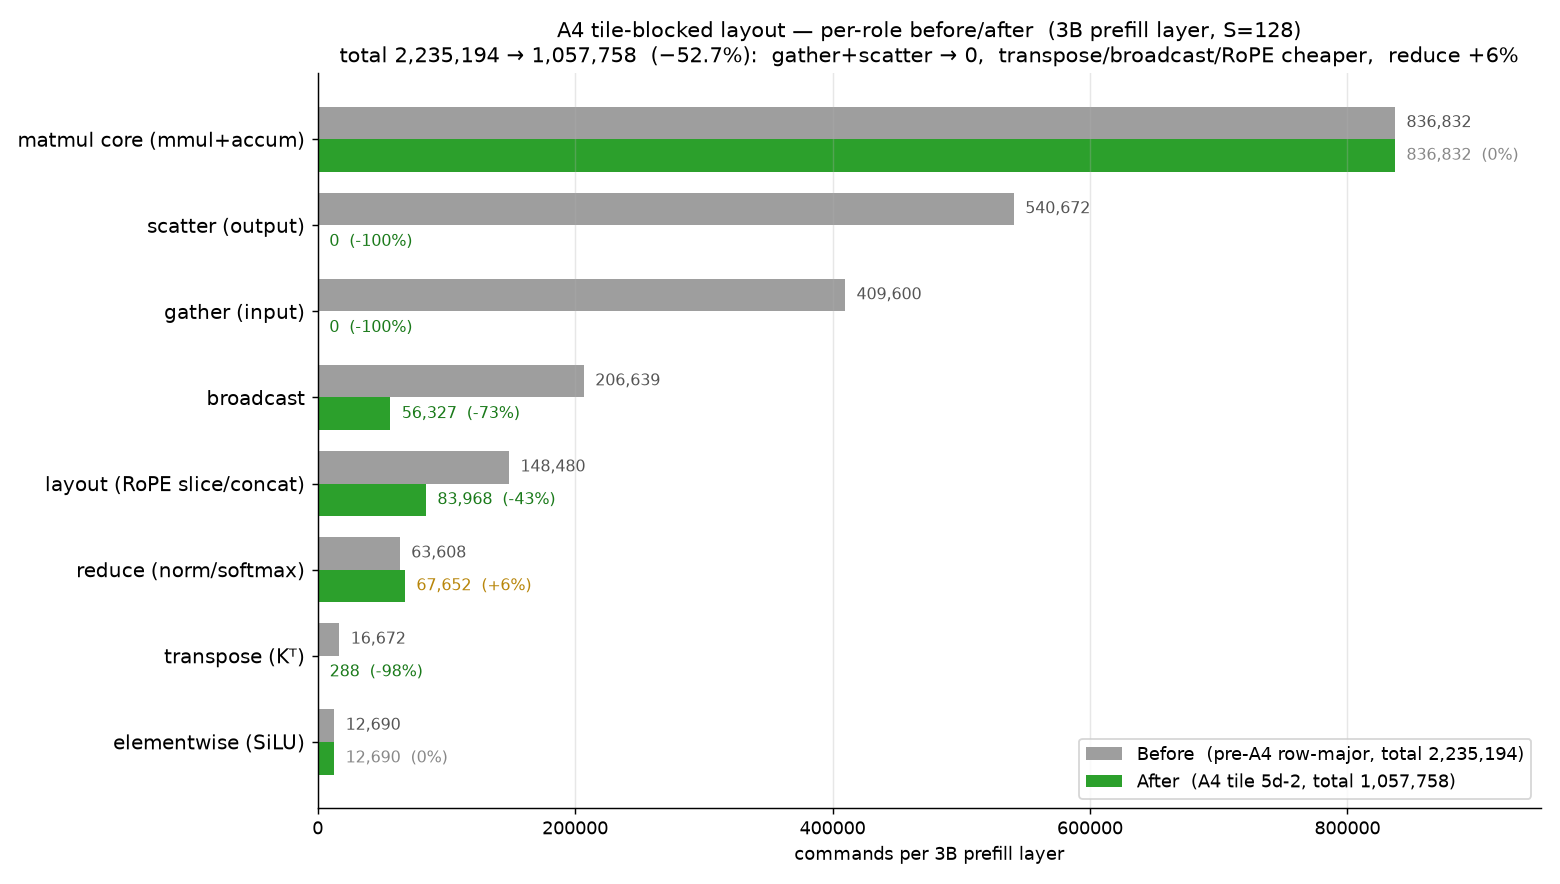
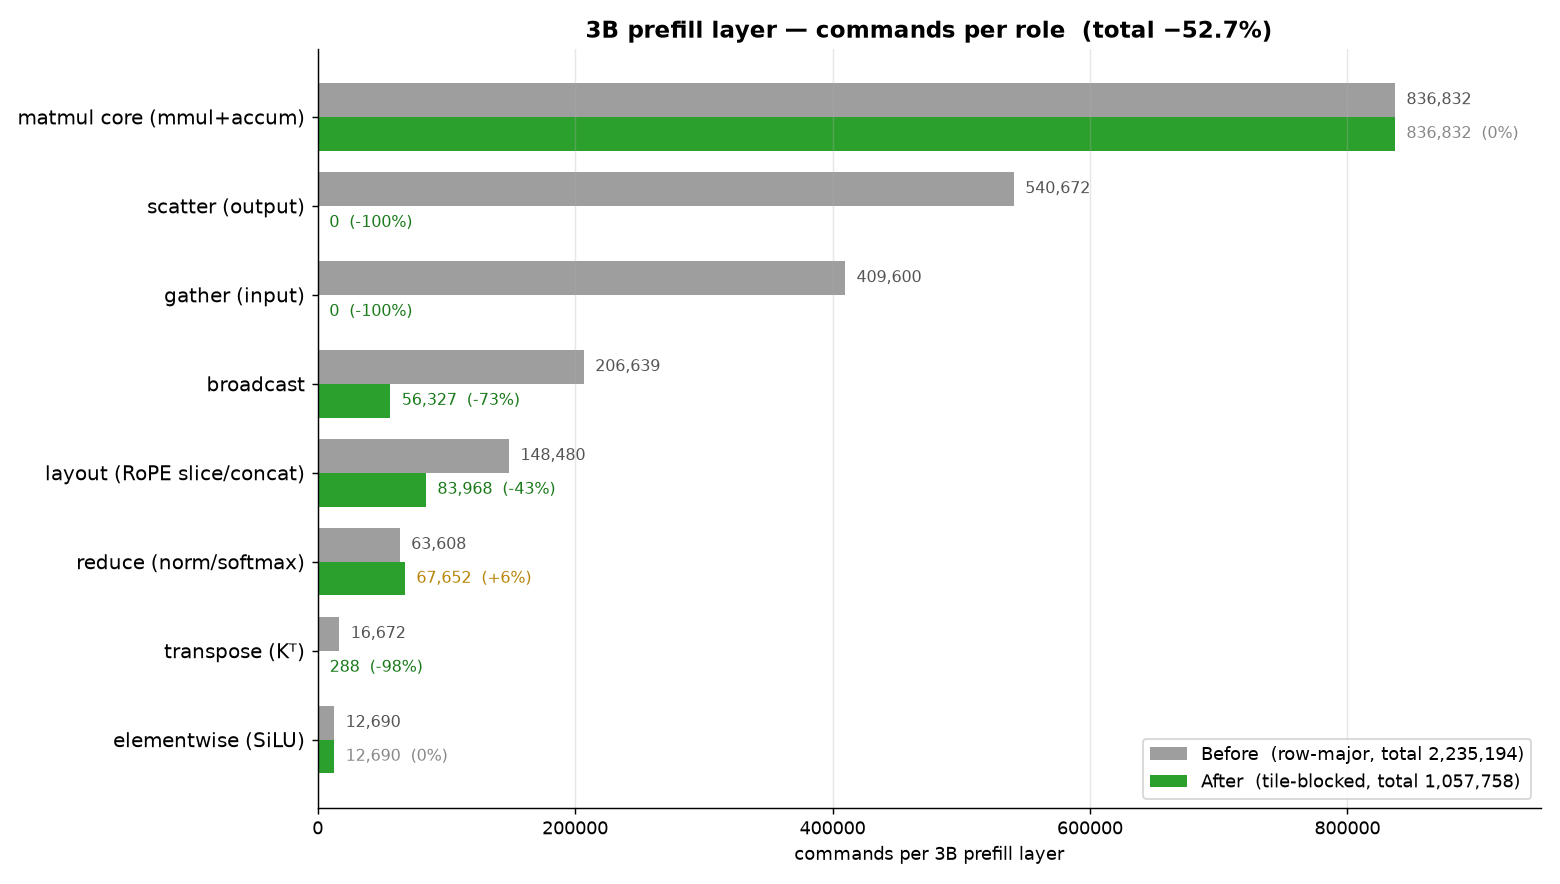
report_0719: memory graph % vs baseline; role graph plain legend/title
- g_memory: total labels now show reduction vs no-reuse baseline (reuse -18%,
  ideal -24%).
- g_role_before_after: drop internal stage codenames from the before/after
  legend (pre-A4 row-major / A4 tile 5d-2 -> row-major / tile-blocked); title
  simplified to '3B prefill layer — commands per role (total -52.7%)'.

diff --git a/report/figs/0719/plot_role_before_after.py b/report/figs/0719/plot_role_before_after.py
@@ -30,8 +30,8 @@ after = np.array([ma[k] for k in labels], float)
 y = np.arange(len(labels))[::-1]; h = 0.38
 
 fig, ax = plt.subplots(figsize=(12, 6.8))
-ax.barh(y + h/2, before, h, color="#9e9e9e", label=f"Before  (pre-A4 row-major, total {TB:,})")
-ax.barh(y - h/2, after, h, color="#2ca02c", label=f"After  (A4 tile 5d-2, total {TA:,})")
+ax.barh(y + h/2, before, h, color="#9e9e9e", label=f"Before  (row-major, total {TB:,})")
+ax.barh(y - h/2, after, h, color="#2ca02c", label=f"After  (tile-blocked, total {TA:,})")
 for i, (bf, af) in enumerate(zip(before, after)):
     yy = y[i]
     ax.text(bf + 9000, yy + h/2, f"{bf:,.0f}", va="center", fontsize=9, color="#555")
@@ -42,9 +42,8 @@ for i, (bf, af) in enumerate(zip(before, after)):
     ax.text(af + 9000, yy - h/2, lab, va="center", fontsize=9, color=col)
 ax.set_yticks(y); ax.set_yticklabels(labels, fontsize=11)
 ax.set_xlabel("commands per 3B prefill layer")
-ax.set_title("A4 tile-blocked layout — per-role before/after  (3B prefill layer, S=128)\n"
-             f"total {TB:,} → {TA:,}  (−{100*(1-TA/TB):.1f}%):  gather+scatter → 0,  "
-             "transpose/broadcast/RoPE cheaper,  reduce +6%", fontsize=11.5)
+ax.set_title(f"3B prefill layer — commands per role  (total −{100*(1-TA/TB):.1f}%)",
+             fontsize=13, fontweight="bold")
 ax.legend(loc="lower right", fontsize=10)
 ax.set_xlim(0, 950_000); ax.grid(axis="x", alpha=0.3)
 ax.spines["top"].set_visible(False); ax.spines["right"].set_visible(False)

diff --git a/report/figs/0719/plot_memory.py b/report/figs/0719/plot_memory.py
@@ -40,7 +40,8 @@ for i in x:
     ax.text(i, W / 2, f"weights\n{W:.0f} MB", ha="center", va="center", fontsize=9.5, color=MUTED, fontweight="bold")
     ax.text(i, W + C + acts[i] + 5, f"act {acts[i]:.1f} MB", ha="center", va="bottom", fontsize=10,
             color=C_A, fontweight="bold")
-    ax.text(i, tots[i] + 20, f"{tots[i]:.0f} MB", ha="center", va="bottom", fontsize=11, color=INK, fontweight="bold")
+    tl = f"{tots[i]:.0f} MB" if i == 0 else f"{tots[i]:.0f} MB  (−{100*(1-tots[i]/tots[0]):.0f}%)"
+    ax.text(i, tots[i] + 20, tl, ha="center", va="bottom", fontsize=11, color=INK, fontweight="bold")
 
 ax.set_xticks(x); ax.set_xticklabels(labels, fontsize=10.5)
 ax.set_ylabel("G-buffer (fp16, MB)", fontsize=11, color=MUTED)
